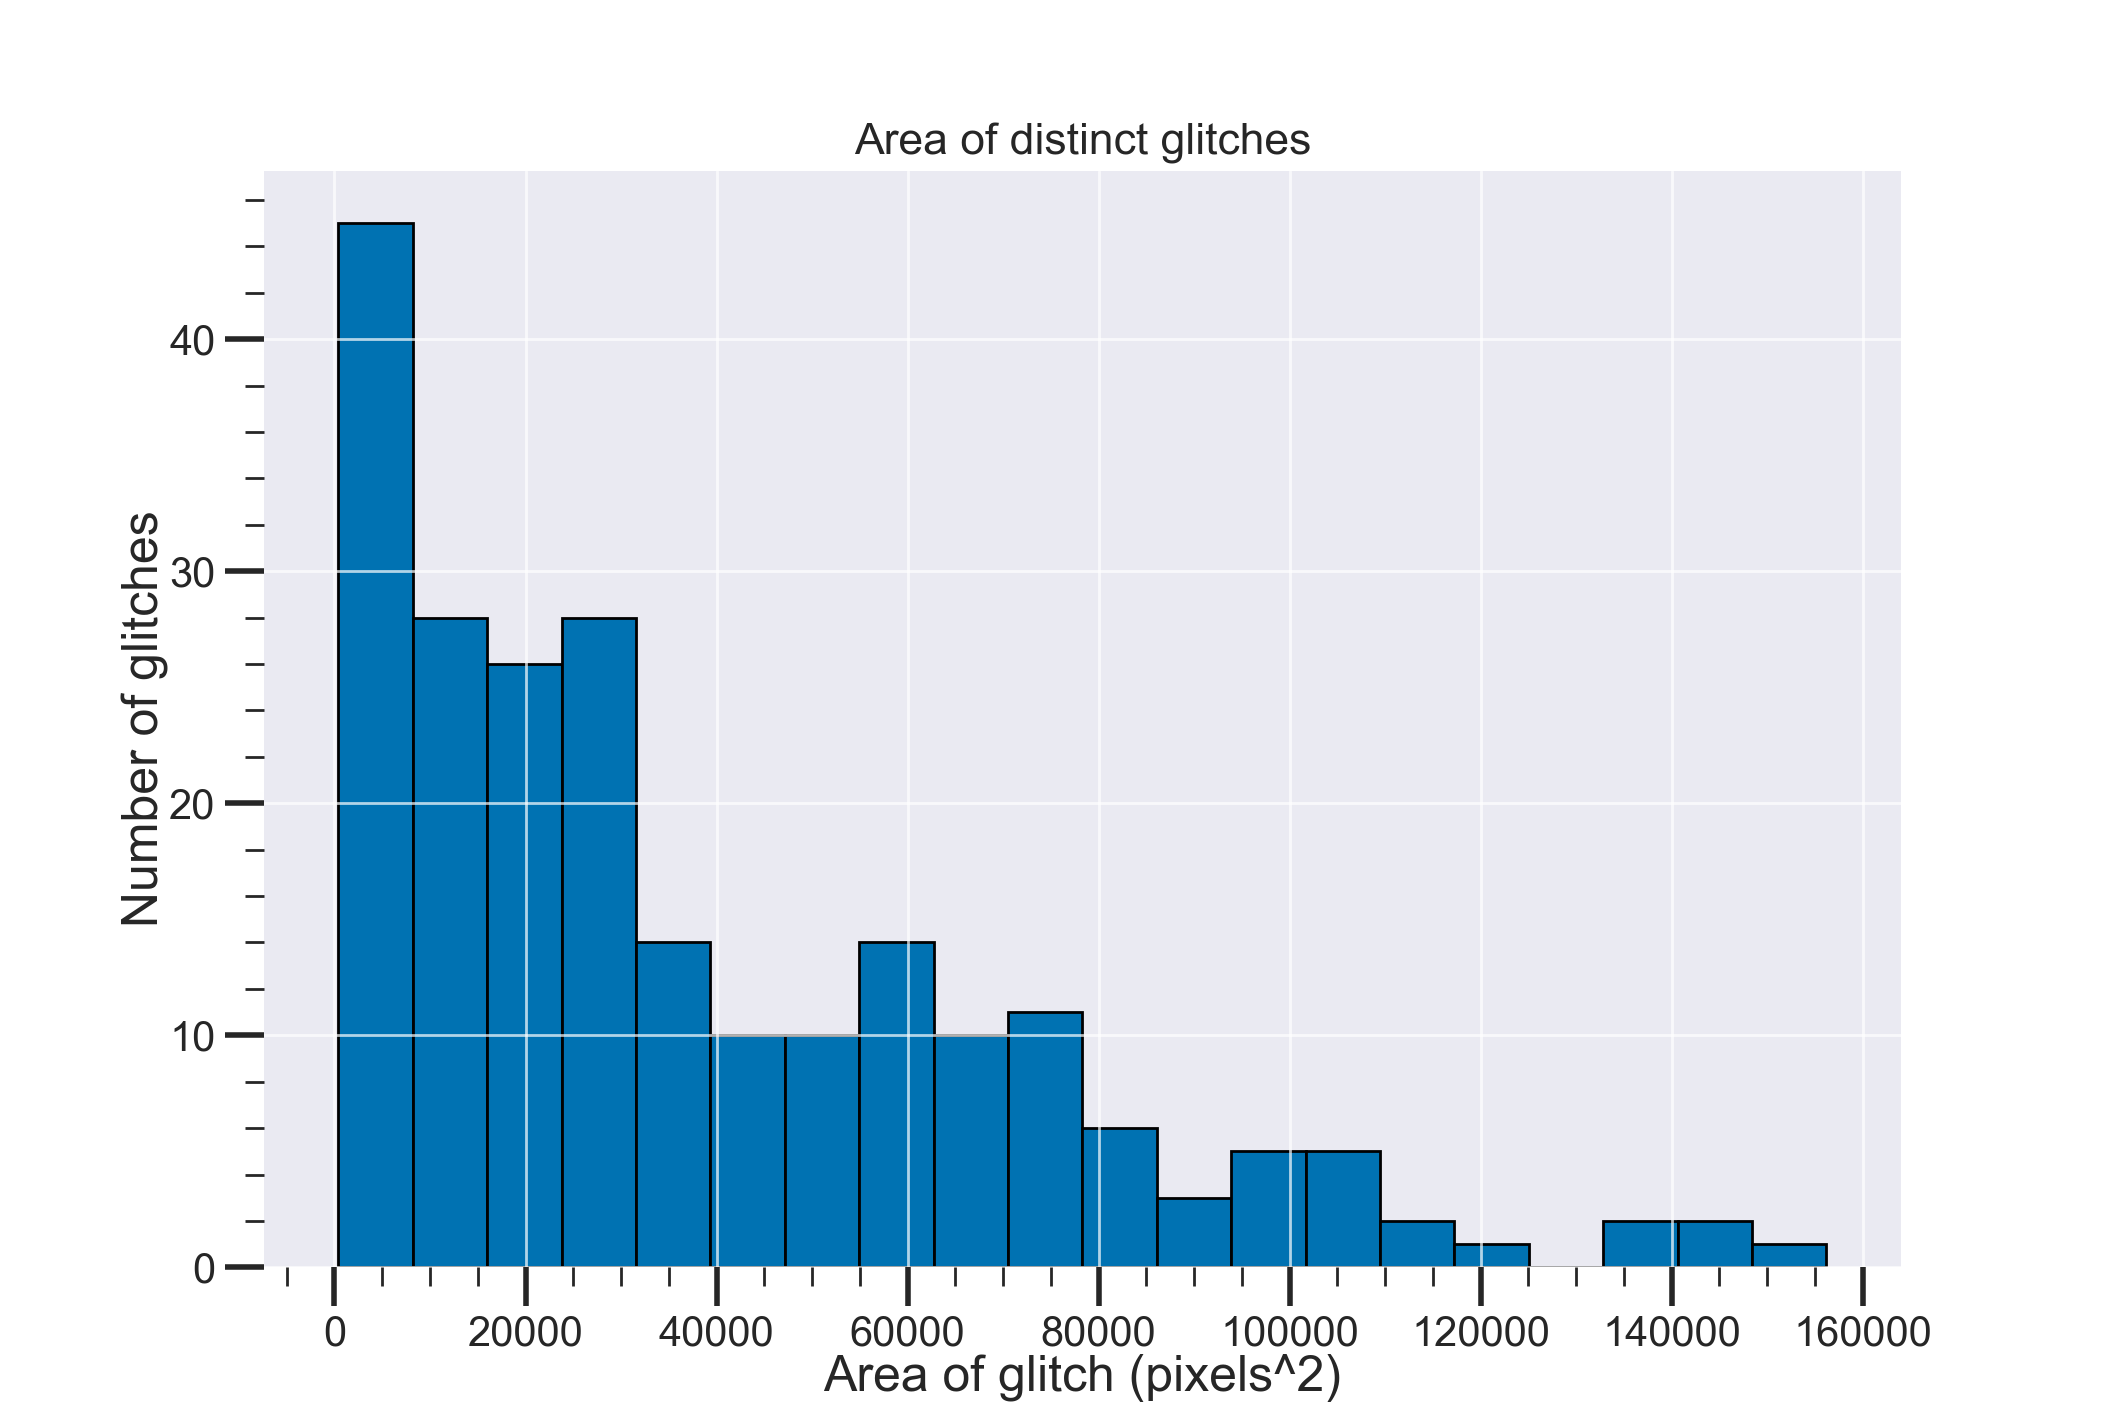
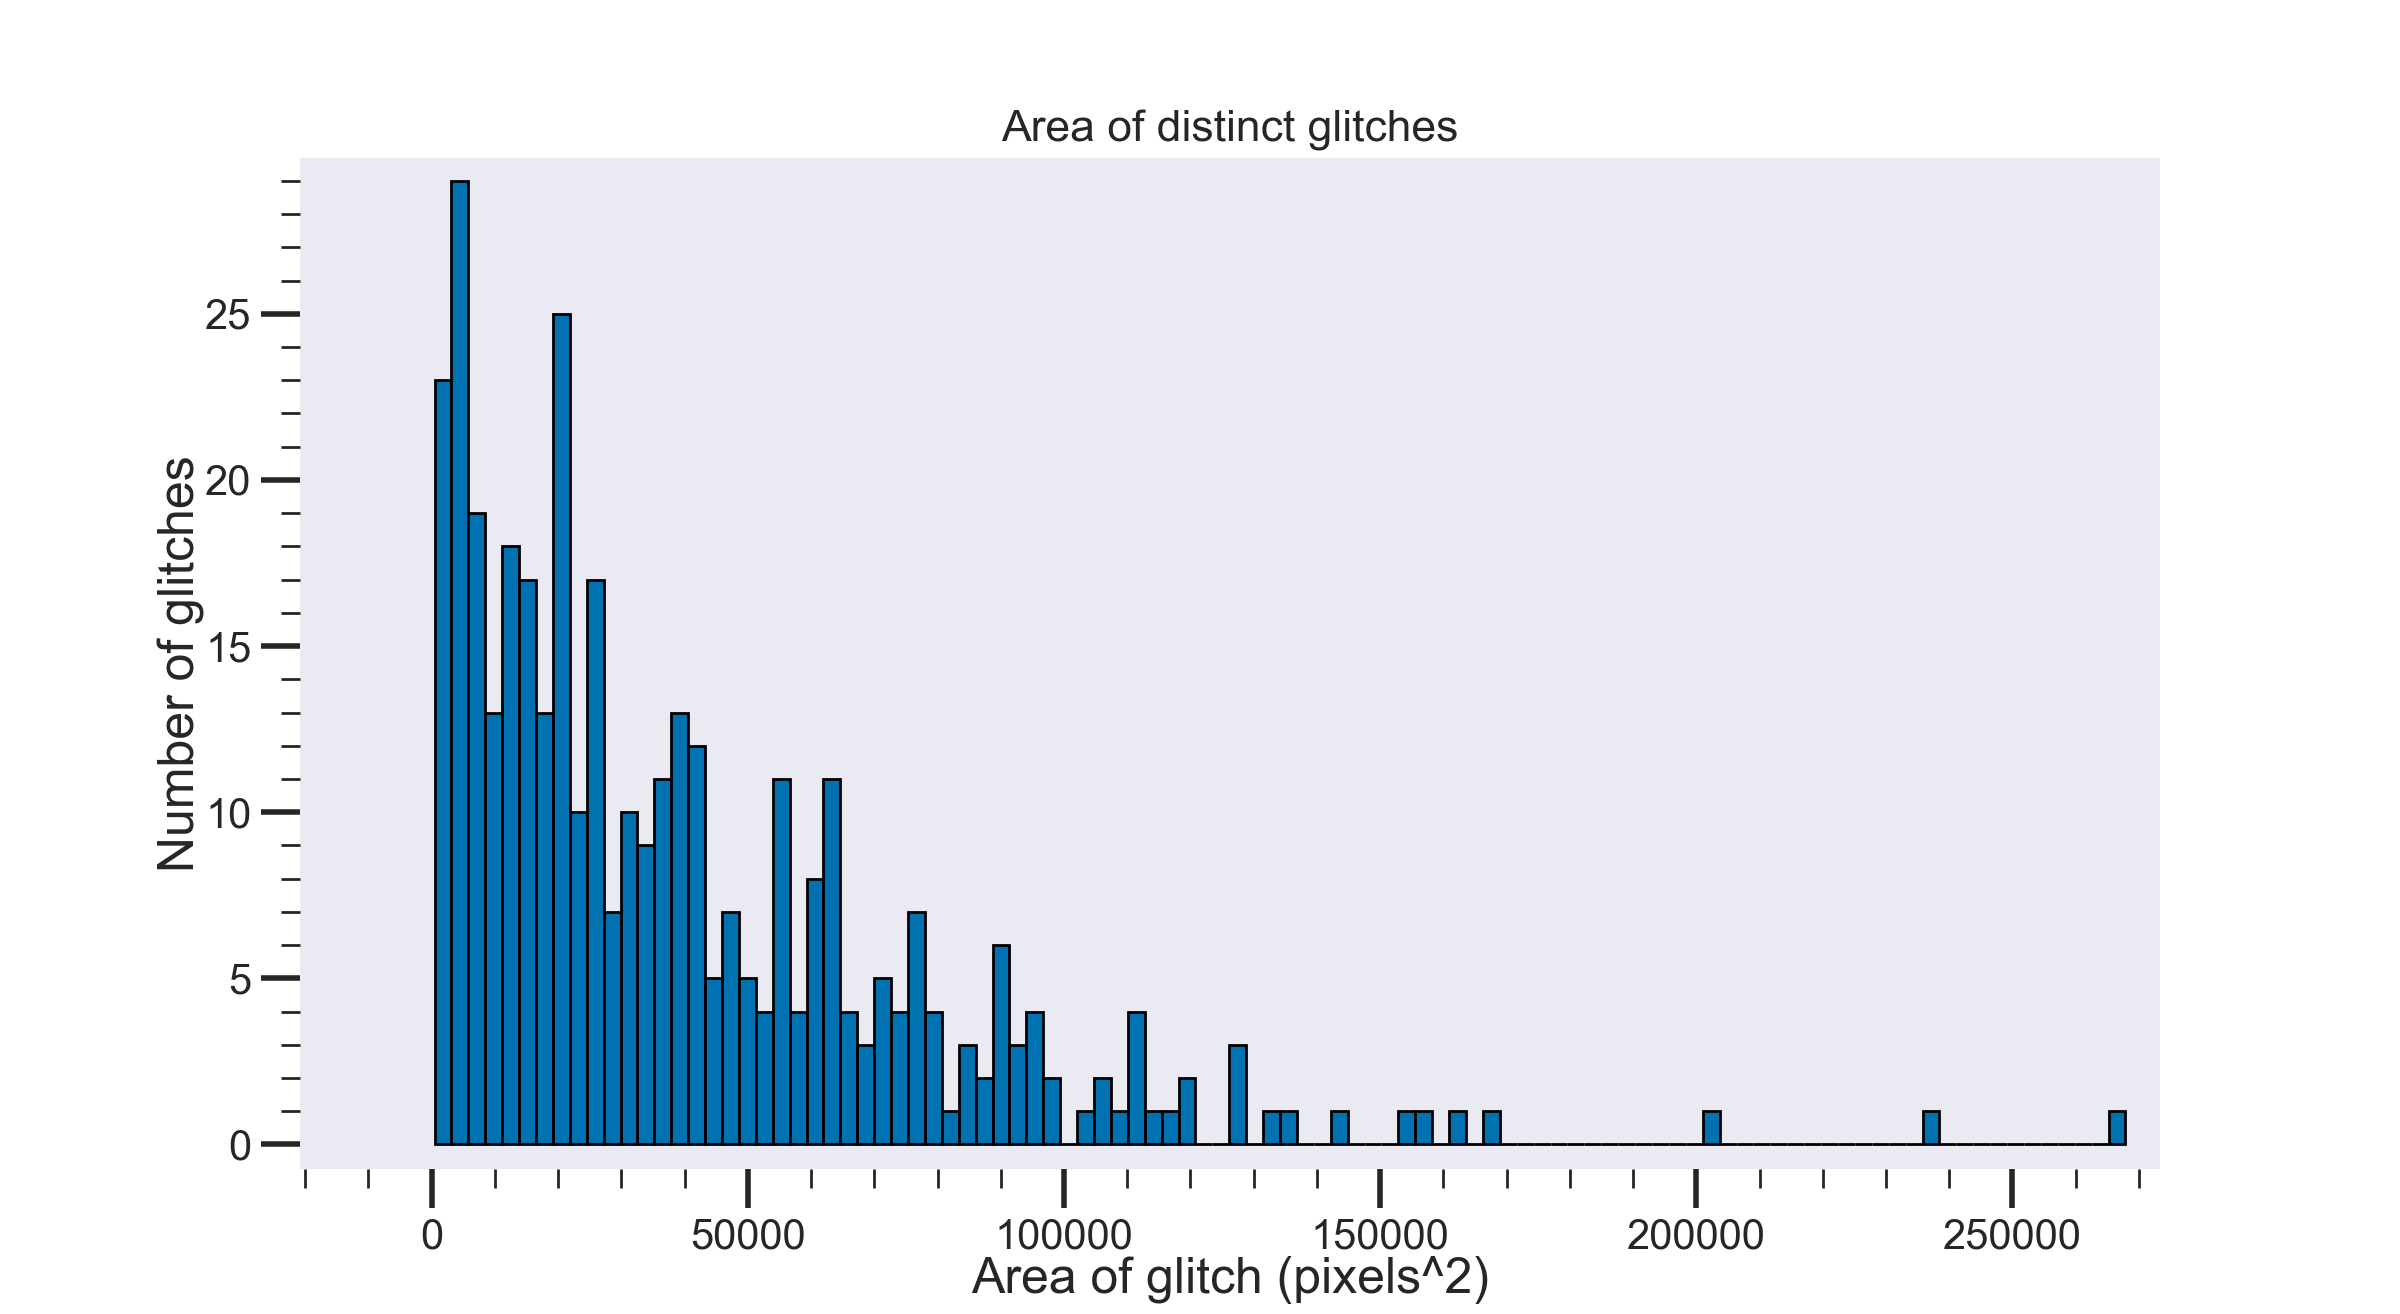
increased bin size

diff --git a/selectGlitches.py b/selectGlitches.py
@@ -77,8 +77,9 @@ if __name__ == "__main__":
             cv2.destroyAllWindows()
             break
 
-    hist = df.hist(column='area', bins=20, figsize = (12,8))
+    hist = df.hist(column='area', bins=100, figsize = (12,8))
     for ax in hist.flatten():
+        ax.grid(False)
         ax.set_xlabel("Area of glitch (pixels^2)")
         ax.set_ylabel("Number of glitches")
         ax.set_title("Area of distinct glitches")
